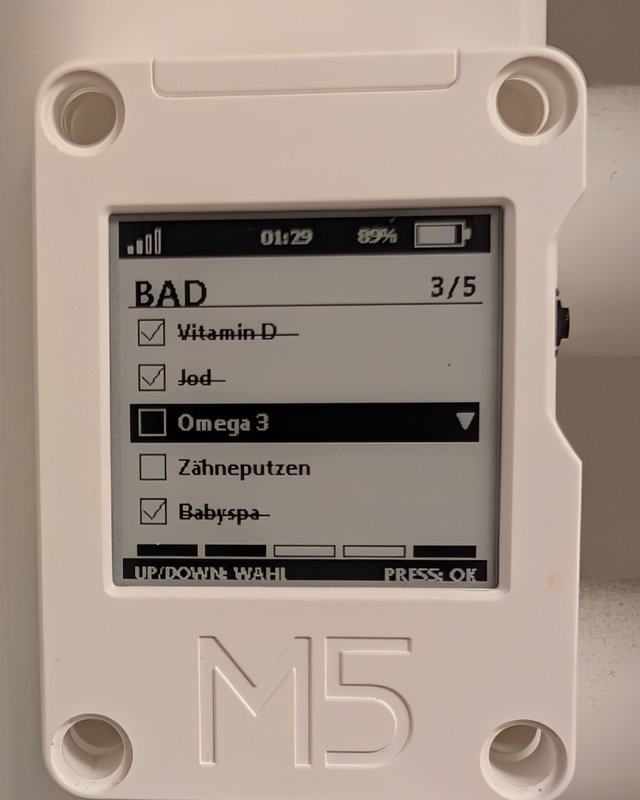
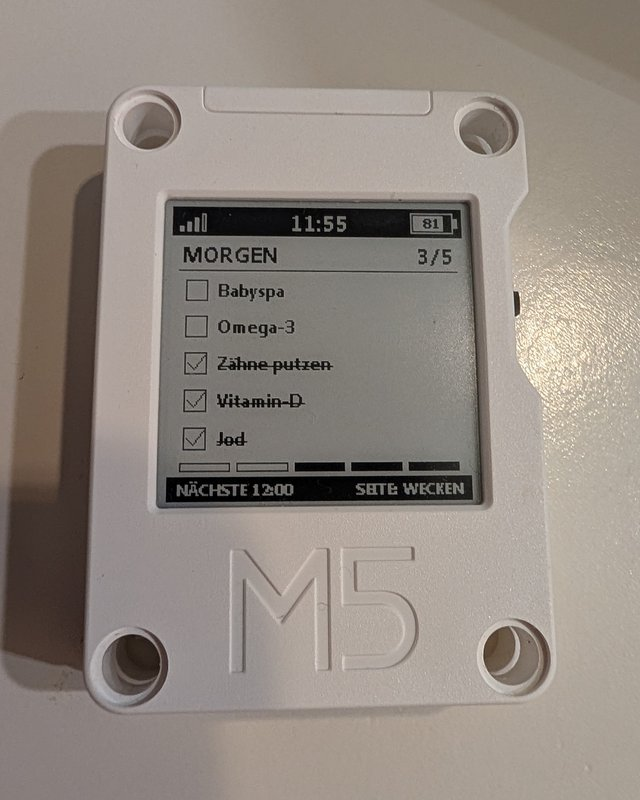
Use the current sleep image photo in the README
Claude-Session: https://claude.ai/code/session_01GaxigSVWS2qQ9ov1GZw4eY

diff --git a/README.md b/README.md
@@ -16,12 +16,12 @@ Press the device buttons, switch dayparts, language and battery level. The scree
 ## On real hardware
 
 <p align="center">
-  <img src="docs/images/hardware-list.jpg" width="300" alt="CoreInk on a bathroom radiator showing the BAD list with three of five tasks done">
+  <img src="docs/images/hardware-list.jpg" width="300" alt="CoreInk sleep image: MORGEN list with three of five tasks done, next wake 12:00">
   &nbsp;
   <img src="docs/images/hardware-nfc.jpg" width="300" alt="Opened CoreInk with a round NFC sticker on the back of the e-paper panel">
 </p>
 
-Left: the bathroom list on a CoreInk mounted to a towel radiator. Right: in my build a passive NFC sticker sits behind the e-paper panel inside the case. Holding a phone to the front of the device opens the dashboard view in the Home Assistant app; see [NFC tag in the deployment guide](docs/DEPLOYMENT.md#optional-nfc-tag-on-the-case-opens-the-dashboard). The CoreInk itself does not read NFC, the sticker works on its own.
+Left: the sleep image after the morning, with the next wake time and `SEITE: WECKEN` at the bottom. Right: in my build a passive NFC sticker sits behind the e-paper panel inside the case. Holding a phone to the front of the device opens the dashboard view in the Home Assistant app; see [NFC tag in the deployment guide](docs/DEPLOYMENT.md#optional-nfc-tag-on-the-case-opens-the-dashboard). The CoreInk itself does not read NFC, the sticker works on its own.
 
 ## What it does
 
